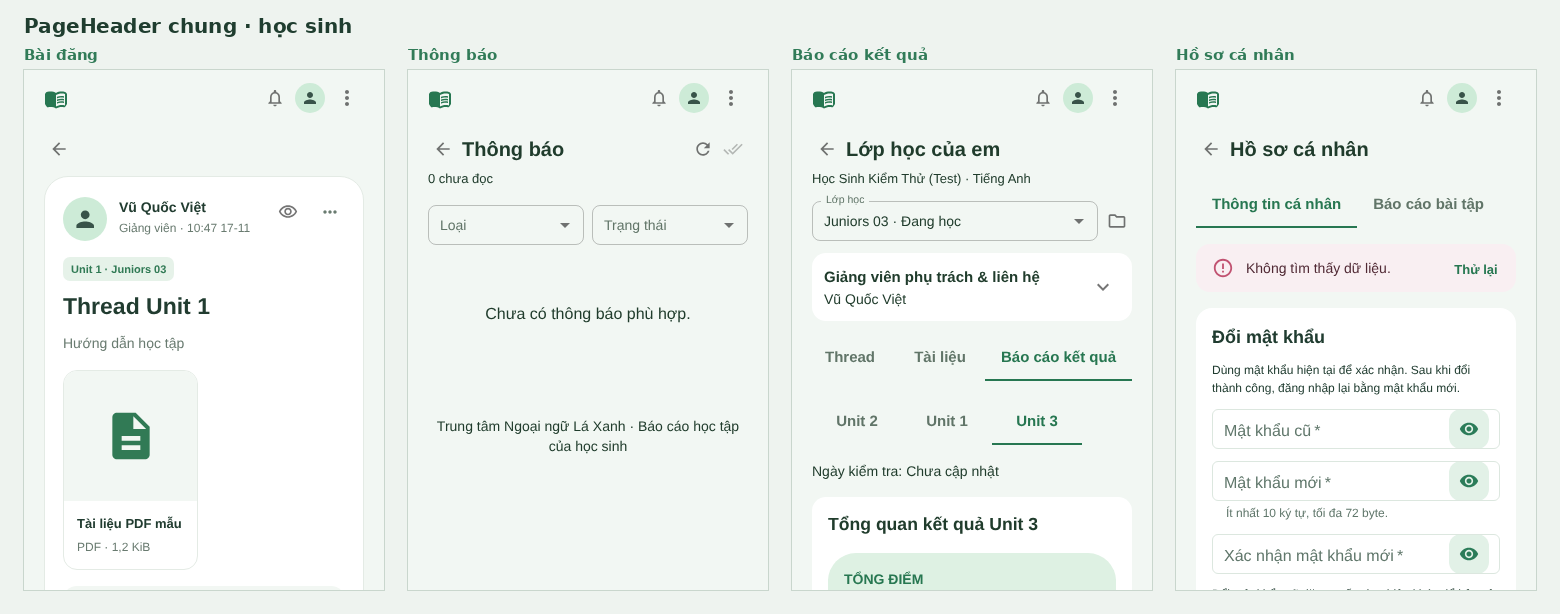
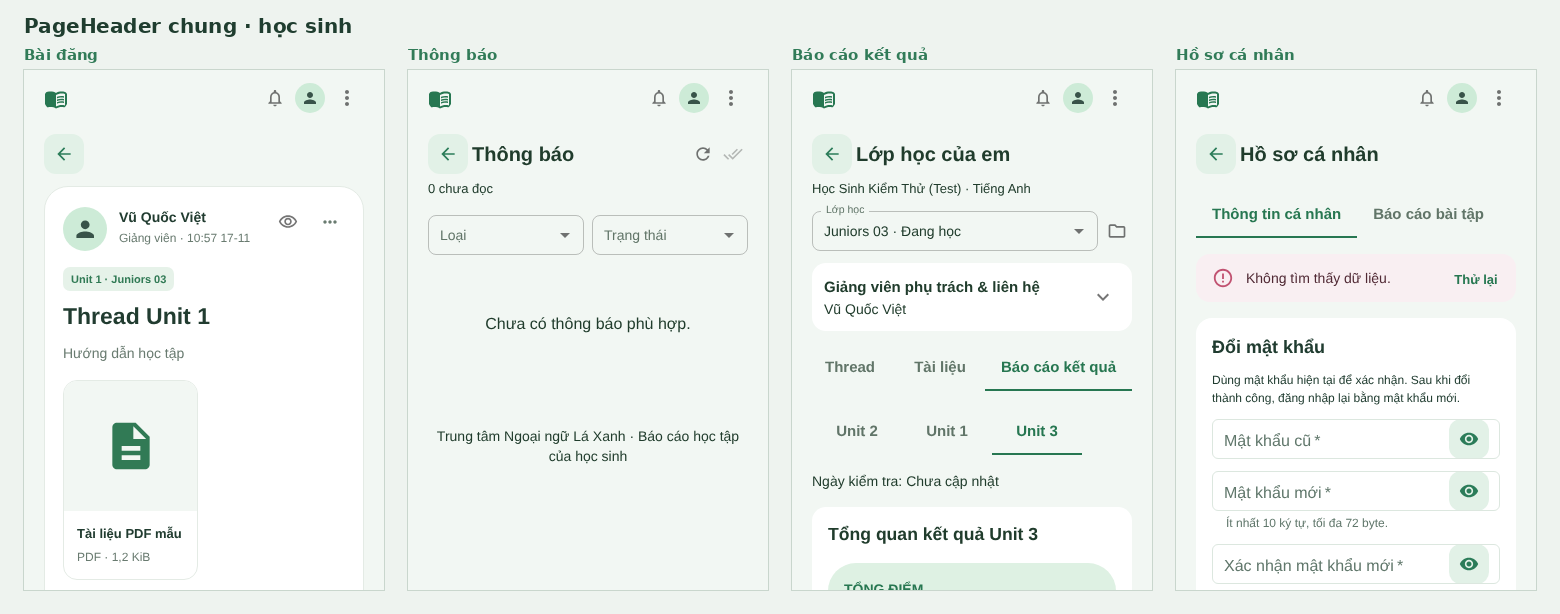
Tinted Back button matching the assignment design
Claude-Session: https://claude.ai/code/session_01E1zejokLKAtRmfPtgSD2iH

diff --git a/src/shared/back-action.tsx b/src/shared/back-action.tsx
@@ -3,7 +3,22 @@ import Link from "next/link";
 import ArrowBack from "@mui/icons-material/ArrowBack";
 import IconButton from "@mui/material/IconButton";
 import Tooltip from "@mui/material/Tooltip";
+import type { Theme } from "@mui/material/styles";
 import { usePageBack } from "./page-navigation";
+/** Tinted square used for Back everywhere (matches the assignment design). */
+const backButtonSx = (theme: Theme) => {
+  const dark = theme.palette.mode === "dark";
+  return {
+    width: 40,
+    height: 40,
+    minWidth: 40,
+    flexShrink: 0,
+    borderRadius: "12px",
+    color: dark ? "#9dd5b6" : "#2b7c59",
+    bgcolor: dark ? "#284737" : "#e2f1e7",
+    "&:hover": { bgcolor: dark ? "#31553f" : "#d3eadb" },
+  };
+};
 export function BackAction({
   fallback = "/home/",
   label = "Quay lại",
@@ -19,6 +34,7 @@ export function BackAction({
         component={Link}
         href={fallback}
         aria-label={label}
+        sx={backButtonSx}
         onClick={(e) => {
           if (!e.metaKey && !e.ctrlKey && !e.shiftKey && !e.altKey) {
             e.preventDefault();
